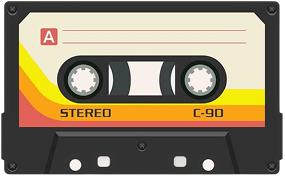
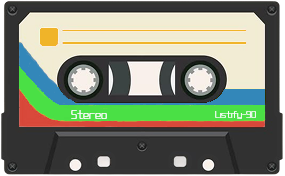
improve design a little

Changed region(s): [[0.0561, 0.2273, 0.9544, 0.7386], [0.1404, 0.142, 0.8702, 0.2841]]

diff --git a/listify_frontend/src/pages/MainPage.tsx b/listify_frontend/src/pages/MainPage.tsx
@@ -1,65 +1,78 @@
-import { Link } from 'react-router-dom';
+import { Link } from "react-router-dom";
 
-import playlistCoverImageOne from '../assets/img/playlist-cover-image-1.png';
-import playlistCoverImageTwo from '../assets/img/playlist-cover-image-2.png';
-import playlistCoverImageThree from '../assets/img/playlist-cover-image-3.png';
-import playlistCoverImageFour from '../assets/img/playlist-cover-image-4.png';
-import cassetteImage from '../assets/img/cassette.png';
+import playlistCoverImageOne from "../assets/img/playlist-cover-image-1.png";
+import playlistCoverImageTwo from "../assets/img/playlist-cover-image-2.png";
+import playlistCoverImageThree from "../assets/img/playlist-cover-image-3.png";
+import playlistCoverImageFour from "../assets/img/playlist-cover-image-4.png";
+import cassetteImage from "../assets/img/cassette.png";
 
 const presetCards = [
   {
-    title: 'Daily Drive',
-    description: '1 hour of music and news',
+    title: "Daily Drive",
+    description: "1 hour of music and news",
     image: playlistCoverImageOne,
-    overlay: 'bg-black/10',
-    label: 'Daily Drive',
+    overlay: "bg-black/10",
+    label: "Daily Drive",
   },
   {
-    title: 'Uptown Funk',
-    description: 'Funky Grooves',
+    title: "Uptown Funk",
+    description: "Funky Grooves",
     image: playlistCoverImageTwo,
-    overlay: 'bg-[#ffee93]/30',
-    label: 'Uptown Funk',
+    overlay: "bg-[#ffee93]/30",
+    label: "Uptown Funk",
   },
   {
-    title: 'Sad vibes',
-    description: 'moody music to your liking!',
+    title: "Sad vibes",
+    description: "moody music to your liking!",
     image: playlistCoverImageThree,
-    overlay: 'bg-[#ffc1c1]/30',
-    label: 'Sad vibes',
+    overlay: "bg-[#ffc1c1]/30",
+    label: "Sad vibes",
   },
   {
-    title: 'Night Drive',
-    description: 'vibey music for driving',
+    title: "Night Drive",
+    description: "vibey music for driving",
     image: playlistCoverImageFour,
-    overlay: 'bg-black/40',
-    label: 'Night drive',
+    overlay: "bg-black/40",
+    label: "Night drive",
   },
 ];
 
 export function MainPage() {
   return (
-    <div className="flex flex-col gap-10 py-4 sm:gap-16 sm:py-8">
+    <div className="flex flex-col gap-10 sm:gap-16 py-4 sm:py-8">
       <section className="flex flex-col gap-4 sm:gap-8">
         <div className="flex flex-col gap-2">
-          <h2 className="max-w-2xl font-vampire text-2xl font-bold leading-tight tracking-tight text-[#1e1e1e] sm:text-4xl">
+          <h2 className="max-w-2xl font-vampire font-bold text-[#1e1e1e] text-2xl sm:text-4xl leading-tight tracking-tight">
             Pick from our daily recommendations!
           </h2>
-          <p className="font-quub text-base font-semibold text-gray-600 sm:text-lg">Presets</p>
+          <p className="font-quub font-semibold text-gray-600 text-base sm:text-lg">
+            Presets
+          </p>
         </div>
 
-        <div className="grid grid-cols-1 gap-5 font-sans sm:grid-cols-2 sm:gap-6 xl:grid-cols-4">
+        <div className="gap-5 sm:gap-6 grid grid-cols-1 sm:grid-cols-2 xl:grid-cols-4 font-sans">
           {presetCards.map((card) => (
-            <article key={card.title} className="mx-auto flex w-full max-w-[240px] flex-col gap-2 sm:max-w-none">
-              <div className="relative aspect-[5/4] overflow-hidden rounded-[24px] shadow-soft sm:aspect-[4/5] sm:rounded-[28px]">
-                <img src={card.image} alt={card.title} className="h-[70%] w-full object-cover" />
+            <article
+              key={card.title}
+              className="flex flex-col gap-2 mx-auto w-full max-w-[240px] sm:max-w-none"
+            >
+              <div className="relative shadow-soft rounded-[24px] sm:rounded-[28px] aspect-[5/4] sm:aspect-[4/5] overflow-hidden">
+                <img
+                  src={card.image}
+                  alt={card.title}
+                  className="w-full h-[70%] object-cover"
+                />
                 <div className={`absolute inset-0 ${card.overlay}`} />
-                <h3 className="absolute left-3 top-3 max-w-[78%] text-lg font-bold tracking-wide text-white sm:left-4 sm:top-4 sm:text-3xl">
+                <h3 className="top-3 sm:top-4 left-3 sm:left-4 absolute max-w-[78%] font-bold text-white text-lg sm:text-3xl tracking-wide">
                   {card.label}
                 </h3>
-                <div className="flex flex-col gap-1 px-4 pt-0.5 sm:px-1 sm:pt-1">
-                  <h4 className="text-sm font-bold text-black sm:text-xl">{card.title}</h4>
-                  <p className="text-xs font-medium leading-5 text-gray-600 sm:text-base">{card.description}</p>
+                <div className="flex flex-col gap-1 px-4 sm:px-1 pt-0.5 sm:pt-1">
+                  <h4 className="font-bold text-black text-sm sm:text-xl">
+                    {card.title}
+                  </h4>
+                  <p className="font-medium text-gray-600 text-xs sm:text-base leading-5">
+                    {card.description}
+                  </p>
                 </div>
               </div>
             </article>
@@ -67,64 +80,83 @@ export function MainPage() {
         </div>
       </section>
 
-      <section className="flex flex-col gap-6 font-sans sm:gap-8">
+      <section className="flex flex-col gap-6 sm:gap-8 font-sans">
         <div className="flex flex-col gap-2">
-          <h2 className="max-w-2xl font-vampire text-2xl font-bold leading-tight tracking-tight text-[#1e1e1e] sm:text-4xl">
+          <h2 className="max-w-2xl font-vampire font-bold text-[#1e1e1e] text-2xl sm:text-4xl leading-tight tracking-tight">
             Customize your own playlist
           </h2>
-          <p className="font-quub text-base font-semibold text-gray-600 sm:text-lg">Custom</p>
+          <p className="font-quub font-semibold text-gray-600 text-base sm:text-lg">
+            Custom
+          </p>
         </div>
 
-        <div className="grid gap-5 lg:grid-cols-[1fr_0.95fr] lg:gap-6">
-          <div className="relative overflow-hidden rounded-[28px] border border-[#e0e0e0] bg-white p-5 shadow-soft sm:rounded-[32px] sm:p-8">
-            <div className="absolute left-0 top-1/2 hidden h-20 w-10 -translate-x-1/2 -translate-y-1/2 bg-[#1e1e1e] [clip-path:polygon(0_0,100%_20%,100%_80%,0_100%)] sm:block" />
-            <div className="absolute right-0 top-1/2 hidden h-20 w-10 translate-x-1/2 -translate-y-1/2 bg-[#1e1e1e] [clip-path:polygon(0_20%,100%_0,100%_100%,0_80%)] sm:block" />
-            <div className="absolute inset-x-0 top-0 flex h-3 overflow-hidden">
-              <div className="h-full w-1/3 bg-[#1e1e1e]" />
-              <div className="h-full w-1/3 bg-[#3387b9]" />
-              <div className="h-full w-1/3 bg-[#24b81f]" />
+        <div className="gap-5 lg:gap-6 grid lg:grid-cols-[1fr_0.95fr]">
+          <div className="relative bg-white shadow-soft p-5 sm:p-8 border border-[#e0e0e0] rounded-[28px] sm:rounded-[32px] overflow-hidden">
+            <div className="hidden sm:block top-1/2 left-0 absolute bg-[#1e1e1e] w-10 h-20 -translate-x-1/2 -translate-y-1/2 [clip-path:polygon(0_0,100%_20%,100%_80%,0_100%)]" />
+            <div className="hidden sm:block top-1/2 right-0 absolute bg-[#1e1e1e] w-10 h-20 -translate-y-1/2 translate-x-1/2 [clip-path:polygon(0_20%,100%_0,100%_100%,0_80%)]" />
+            <div className="top-0 absolute inset-x-0 flex h-3 overflow-hidden">
+              <div className="bg-[#1e1e1e] w-1/3 h-full" />
+              <div className="bg-[#3387b9] w-1/3 h-full" />
+              <div className="bg-[#24b81f] w-1/3 h-full" />
             </div>
-            <div className="relative flex h-full min-h-[220px] pl-5 flex-col justify-between gap-6 sm:min-h-[280px] sm:gap-8">
-              <div className="max-w-md space-y-3 text-[#1e1e1e]">
-                <span className="inline-flex w-fit rounded-full border border-[#e0e0e0] bg-[#f7f9ef] px-3 py-1 text-[11px] font-semibold uppercase tracking-[0.22em] text-[#394158] sm:text-xs">
+            <div className="relative flex flex-col justify-between gap-6 sm:gap-8 pl-5 h-full min-h-[220px] sm:min-h-[280px]">
+              <div className="space-y-3 max-w-md text-[#1e1e1e]">
+                <span className="inline-flex bg-[#f7f9ef] px-3 py-1 border border-[#e0e0e0] rounded-full w-fit font-semibold text-[#394158] text-[11px] sm:text-xs uppercase tracking-[0.22em]">
                   Custom builder
                 </span>
-                <h3 className="max-w-xl font-vampire text-2xl tracking-tight sm:text-4xl">Turn the cassette into a playlist.</h3>
-                <p className="max-w-lg text-sm leading-6 text-gray-600 sm:text-base">
-                  Open the builder to tune the duration, familiarity, and variety of your playlist. The cassette preview acts as the entry point into the creation flow.
+                <h3 className="max-w-xl font-vampire text-2xl sm:text-4xl tracking-tight">
+                  Turn the cassette into a playlist.
+                </h3>
+                <p className="max-w-lg text-gray-600 text-sm sm:text-base leading-6">
+                  Open the builder to tune the duration, familiarity, and
+                  variety of your playlist. The cassette preview acts as the
+                  entry point into the creation flow.
                 </p>
               </div>
 
-              <div className="flex flex-wrap gap-2 text-sm sm:gap-3">
-                <span className="rounded-full border border-[#e0e0e0] bg-[#f7f9ef] px-3 py-1.5 text-xs font-semibold text-[#1e1e1e] sm:text-sm">Duration</span>
-                <span className="rounded-full border border-[#e0e0e0] bg-[#f7f9ef] px-3 py-1.5 text-xs font-semibold text-[#1e1e1e] sm:text-sm">Familiarity</span>
-                <span className="rounded-full border border-[#e0e0e0] bg-[#f7f9ef] px-3 py-1.5 text-xs font-semibold text-[#1e1e1e] sm:text-sm">Variety</span>
+              <div className="flex flex-wrap gap-2 sm:gap-3 text-sm">
+                <span className="bg-[#f7f9ef] px-3 py-1.5 border border-[#e0e0e0] rounded-full font-semibold text-[#1e1e1e] text-xs sm:text-sm">
+                  Duration
+                </span>
+                <span className="bg-[#f7f9ef] px-3 py-1.5 border border-[#e0e0e0] rounded-full font-semibold text-[#1e1e1e] text-xs sm:text-sm">
+                  Familiarity
+                </span>
+                <span className="bg-[#f7f9ef] px-3 py-1.5 border border-[#e0e0e0] rounded-full font-semibold text-[#1e1e1e] text-xs sm:text-sm">
+                  Variety
+                </span>
               </div>
             </div>
           </div>
 
           <Link
             to="/create"
-            className="group relative overflow-hidden rounded-[28px] border border-[#e0e0e0] bg-[#f7f9ef] p-4 shadow-soft transition-transform duration-200 hover:-translate-y-1 hover:shadow-md focus-visible:outline-none focus-visible:ring-2 focus-visible:ring-[#1e1e1e]/20 focus-visible:ring-offset-2 sm:rounded-[32px]"
+            className="group relative bg-white shadow-soft hover:shadow-md p-4 border border-[#e0e0e0] rounded-[28px] sm:rounded-[32px] focus-visible:outline-none focus-visible:ring-[#1e1e1e]/20 focus-visible:ring-2 focus-visible:ring-offset-2 overflow-hidden transition-transform hover:-translate-y-1 duration-200"
           >
+            <div className="top-0 absolute inset-x-0 flex h-3 overflow-hidden">
+              <div className="bg-[#3387b9] w-1/4 h-full" />
+              <div className="bg-[#24b81f] w-1/4 h-full" />
+              <div className="bg-[#D94B3D] w-1/4 h-full" />
+              <div className="bg-[#F0B429] w-1/4 h-full" />
+            </div>
             <div className="absolute inset-0 bg-[radial-gradient(circle_at_top_right,_rgba(52,176,255,0.08),_transparent_35%),radial-gradient(circle_at_bottom_left,_rgba(36,184,31,0.08),_transparent_36%)]" />
-            <div className="relative flex h-full min-h-[240px] flex-col gap-4 sm:min-h-[280px]">
-              <div className="flex items-start justify-between gap-3 sm:gap-4">
-                <div className="space-y-1">
-                  <p className="text-[11px] font-semibold uppercase tracking-[0.22em] text-gray-500 sm:text-xs">Tap to create</p>
-                  <h4 className="font-quub text-lg font-bold text-[#1e1e1e] sm:text-2xl">Cassette preview</h4>
+            <div className="relative flex flex-col gap-4 h-full min-h-[240px] sm:min-h-[280px]">
+              <div className="flex justify-between items-start gap-3 sm:gap-4">
+                <div className="space-y-1 p-2 pl-4">
+                  <p className="font-semibold text-[11px] text-gray-500 sm:text-xs uppercase tracking-[0.22em]">
+                    Tap to create
+                  </p>
                 </div>
-                <span className="inline-flex items-center rounded-full border border-[#1e1e1e] bg-white px-3 py-1 text-[11px] font-semibold text-[#1e1e1e] transition-transform duration-200 group-hover:-translate-y-0.5 sm:text-xs">
+                <span className="inline-flex items-center bg-white px-3 py-1 border border-[#1e1e1e] rounded-full font-semibold text-[#1e1e1e] text-[11px] sm:text-xs transition-transform group-hover:-translate-y-0.5 duration-200">
                   Open builder
                 </span>
               </div>
 
-              <div className="flex flex-1 items-center justify-center">
-                <div className="w-full max-w-[180px] rounded-[22px] border border-[#e0e0e0] bg-white p-3 shadow-sm transition-transform duration-200 group-hover:-rotate-1 group-hover:scale-[1.01] sm:max-w-sm sm:rounded-[24px] sm:p-5">
+              <div className="flex flex-1 justify-center items-center">
+                <div className="bg-[#f7f9ef] shadow-sm p-3 sm:p-5 border border-[#e0e0e0] rounded-[22px] sm:rounded-[24px] w-full max-w-[180px] sm:max-w-sm group-hover:-rotate-1 group-hover:scale-[1.01] transition-transform duration-200">
                   <img
                     src={cassetteImage}
                     alt="Cassette illustration for custom playlist creation"
-                    className="h-full w-full rounded-[16px] object-cover sm:rounded-[18px]"
+                    className="rounded-[16px] sm:rounded-[18px] w-full h-full object-cover"
                   />
                 </div>
               </div>
